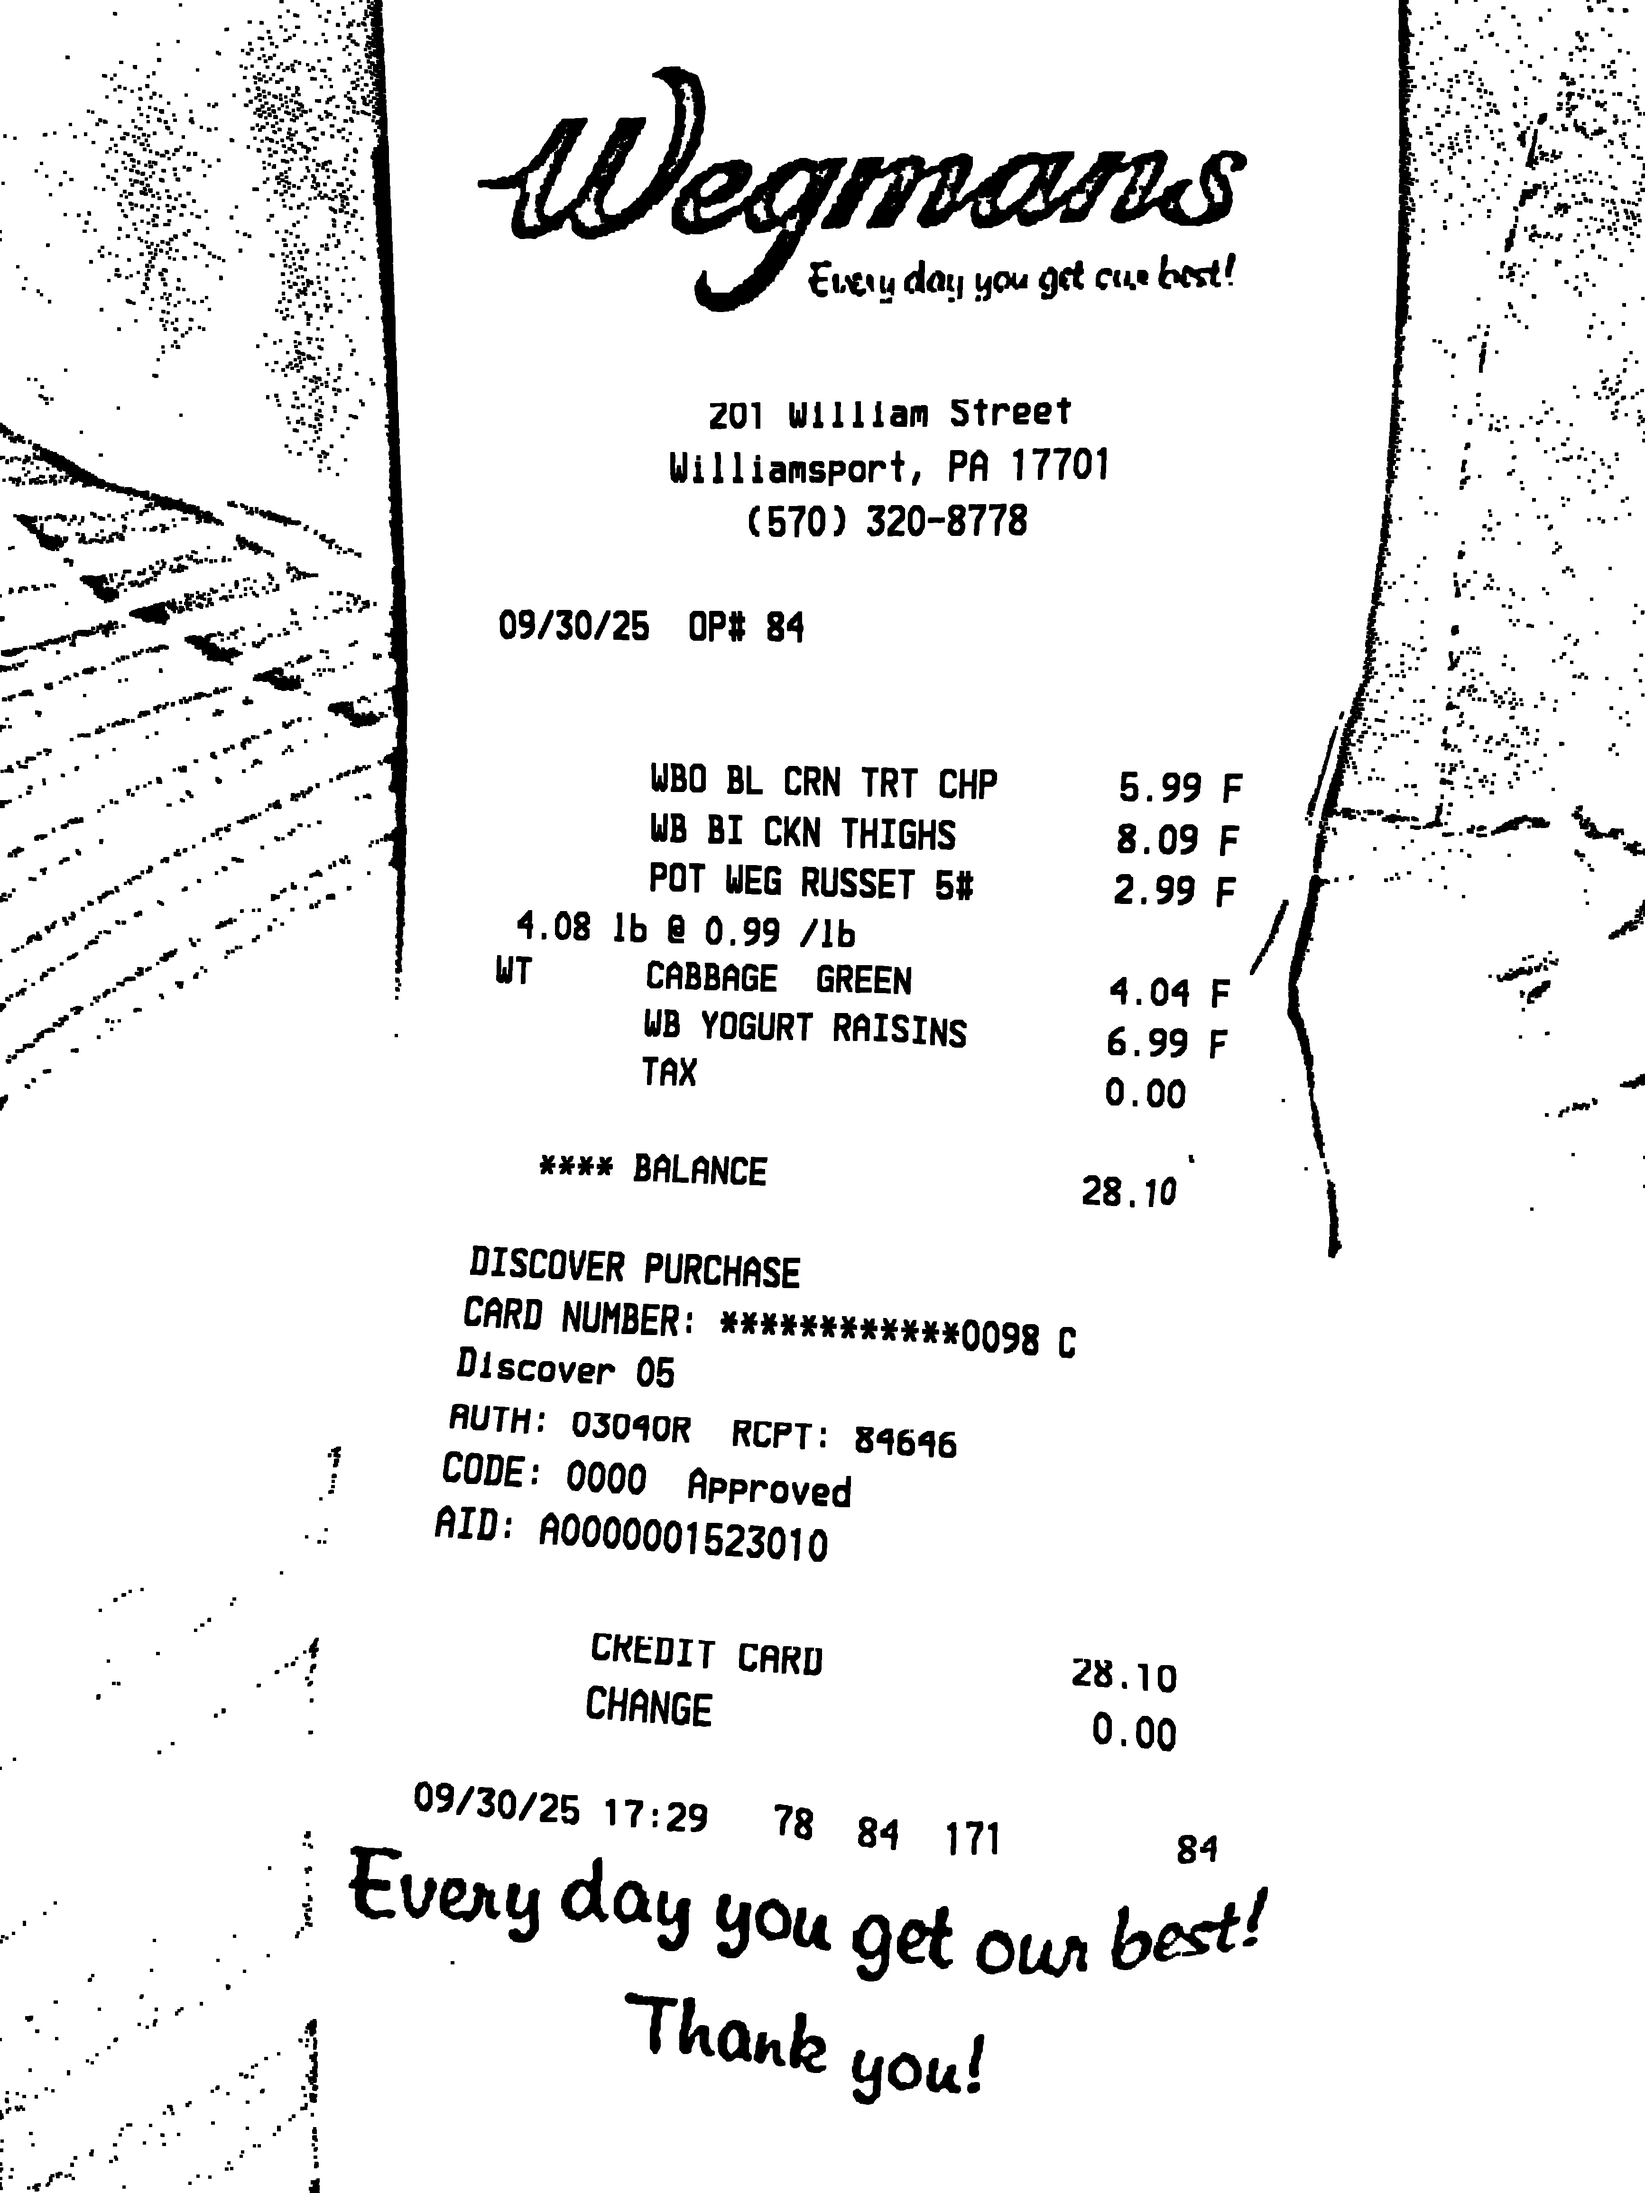
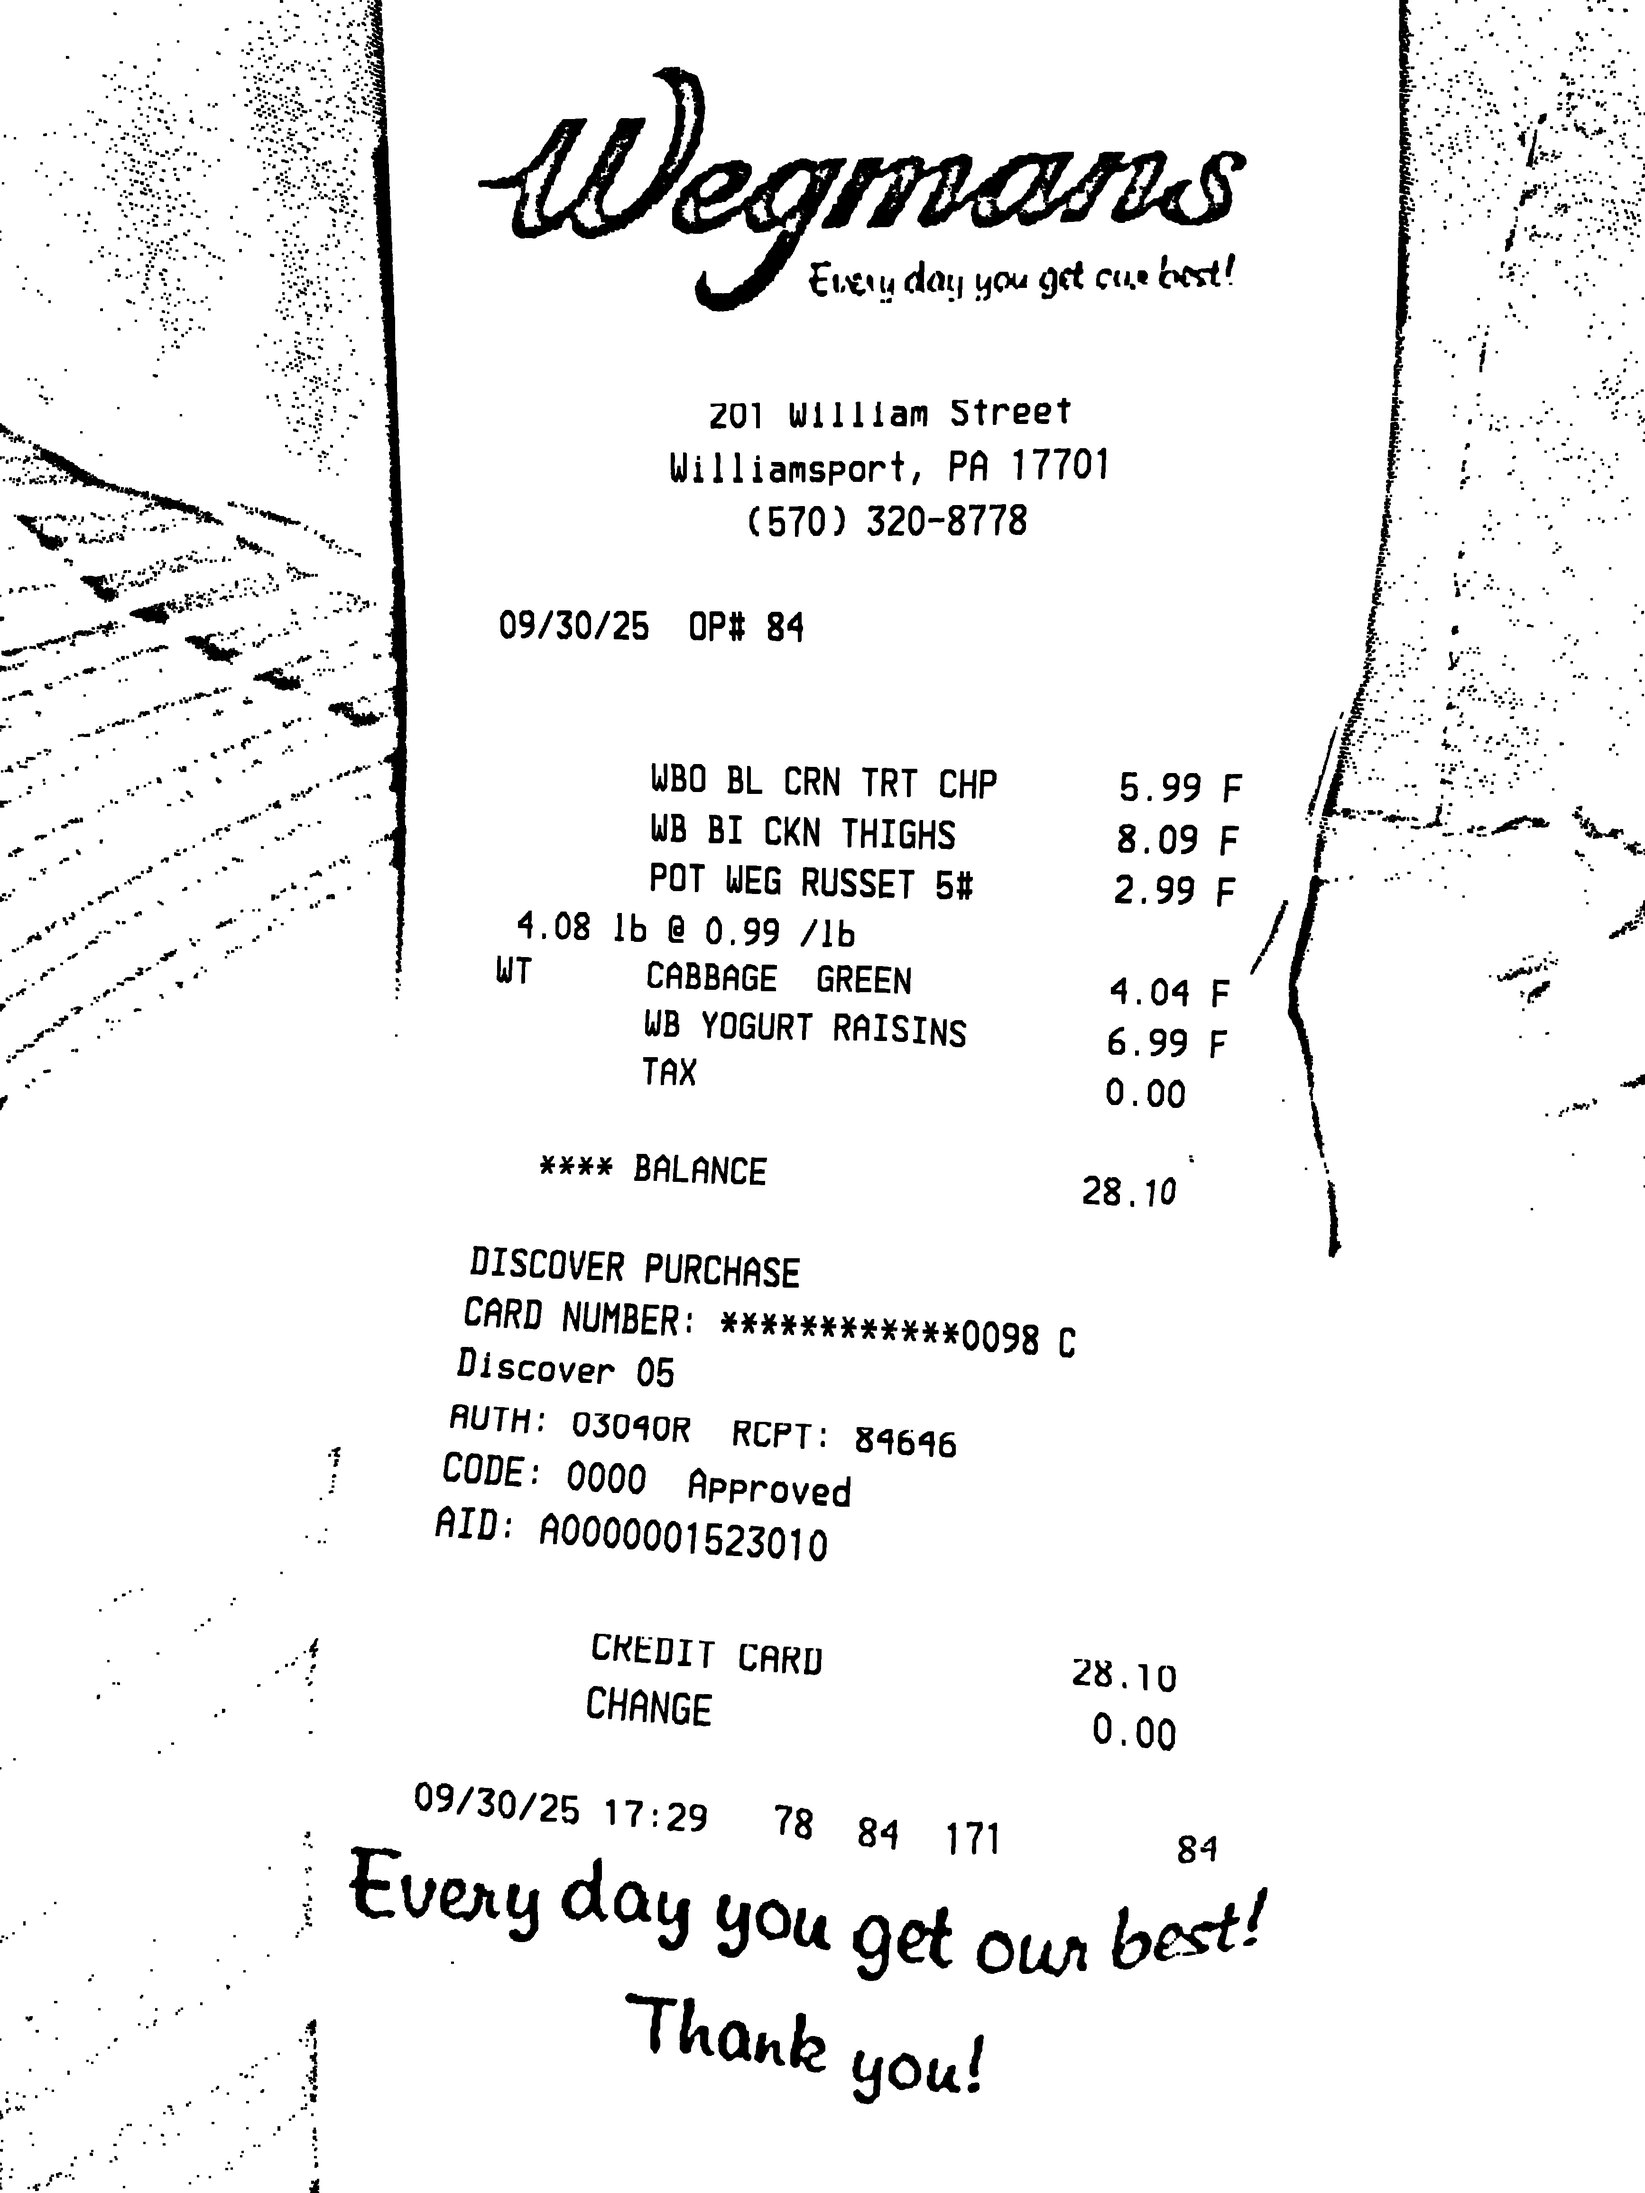
loading datasets

Changed region(s): [[0.1557, 0.0311, 0.1869, 0.0623]]

diff --git a/src/ocr/preprocess.py b/src/ocr/preprocess.py
@@ -13,12 +13,13 @@ def main():
     # gives a numpy array, grayscale b/c only want the text
     # image.shape is (height, width, 3 BGR channels)
     # but with using grayscale is just (height, width)
-    img = cv2.imread(image_path + "receipt.jpg", cv2.IMREAD_GRAYSCALE)
+    img = cv2.imread(image_path + "target_receipt.jpg", cv2.IMREAD_GRAYSCALE)
     # img = cv2.imread(image_path + "receipt3.jpg")
 
     # img = process_image(img)
     # img = remove(img)
-    img = reduce_shadow(img)
+    # img = reduce_shadow(img)
+    # img = fill_text(img)
 
     print(pytesseract.image_to_string(img))
     # img = remove(img)
@@ -31,8 +32,9 @@ def main():
     # img = deskew_image(img)
     # img = normalize_image(img)
     # img = threshold_image(img)
-    cv2.imwrite(image_path + 'gaussian9.jpg', img)
+    cv2.imwrite(image_path + 'gaussian10.jpg', img)
     return
+
 
 def f(img):
     h, w = img.shape[:2]
@@ -47,11 +49,29 @@ def f(img):
     mask = 255 - morph
     result = cv2.bitwise_and(img, img, mask=mask)
     return result
+
+
 def reduce_blur(img):
     if len(img.shape) == 3:
         img = cv2.cvtColor(img, cv2.COLOR_BGR2GRAY)
 
+
 # definitely has some room for improvement
+
+# intended to work on binary separated using otsu's method
+def fill_text(otsu_img):
+    # kernel for connecting broken letters
+    kernel = cv2.getStructuringElement(cv2.MORPH_RECT, (3, 3))
+
+    # closing = dilation then erosion
+    # gaussian 8 = 1,3
+    # 1, 3 seems to be best, can always go back though
+    # nevermind 1,2 doesn't matter how it looks to human eyes
+    dilated = cv2.dilate(otsu_img, kernel, iterations=1)
+    closed = cv2.erode(dilated, kernel, iterations=3)
+    return closed
+
+
 def reduce_shadow(img):
     if len(img.shape) == 3:
         img = cv2.cvtColor(img, cv2.COLOR_BGR2GRAY)
@@ -70,16 +90,7 @@ def reduce_shadow(img):
     # otsu's method is used here because we've effective split the foreground and background,
     # giving us the bimodal lighting that otsu's needs to work properly
     thresh = cv2.threshold(divide, 0, 255, cv2.THRESH_BINARY + cv2.THRESH_OTSU)[1]
-
-    # kernel for connecting broken letters
-    kernel = cv2.getStructuringElement(cv2.MORPH_RECT, (3, 3))
-
-    # closing = dilation then erosion
-    # gaussian 8 = 1,3
-    # 1, 3 seems to be best, can always go back though
-    dilated = cv2.dilate(thresh, kernel, iterations=1)
-    closed = cv2.erode(dilated, kernel, iterations=3)
-    return closed
+    return thresh
 
     # mask = np.zeros(divide.shape[:2], np.uint8)
     # bgdModel = np.zeros((1, 65), np.float64)
@@ -101,38 +112,40 @@ def normalize_image(img):
 
 
 def process_image(img):
-        height, width = img.shape[:2]
-        margin = 0.05  # 5% margin
-        x = int(width * margin)
-        y = int(height * margin)
-        rect = (x, y, width - 2 * x, height - 2 * y)
+    height, width = img.shape[:2]
+    margin = 0.05  # 5% margin
+    x = int(width * margin)
+    y = int(height * margin)
+    rect = (x, y, width - 2 * x, height - 2 * y)
 
-        # Create mask and models
+    # Create mask and models
 
-        mask = np.zeros(img.shape[:2], np.uint8)
-        bgdModel = np.zeros((1, 65), np.float64)
-        fgdModel = np.zeros((1, 65), np.float64)
+    mask = np.zeros(img.shape[:2], np.uint8)
+    bgdModel = np.zeros((1, 65), np.float64)
+    fgdModel = np.zeros((1, 65), np.float64)
 
-        # Apply GrabCut
+    # Apply GrabCut
 
-        cv2.grabCut(img, mask, rect, bgdModel, fgdModel, 5, cv2.GC_INIT_WITH_RECT)
+    cv2.grabCut(img, mask, rect, bgdModel, fgdModel, 5, cv2.GC_INIT_WITH_RECT)
 
-        # Create binary mask
+    # Create binary mask
 
-        mask2 = np.where((mask == 2) | (mask == 0), 0, 1).astype("uint8")
+    mask2 = np.where((mask == 2) | (mask == 0), 0, 1).astype("uint8")
 
-        # Convert to RGBA and apply mask to alpha channel
+    # Convert to RGBA and apply mask to alpha channel
 
-        output_rgba = cv2.cvtColor(img, cv2.COLOR_BGR2BGRA)
-        output_rgba[:, :, 3] = mask2 * 255  # 0 for background, 255 for foreground
-        return output_rgba
+    output_rgba = cv2.cvtColor(img, cv2.COLOR_BGR2BGRA)
+    output_rgba[:, :, 3] = mask2 * 255  # 0 for background, 255 for foreground
+    return output_rgba
 
-        # Save as PNG to preserve transparency
+    # Save as PNG to preserve transparency
+
 
 def threshold_image(img):
     # don't really care about the threshold value
     _, binary = cv2.threshold(img, 0, 255, cv2.THRESH_BINARY + cv2.THRESH_OTSU)
     return binary
+
 
 def remove_bg(img):
     if len(img.shape) == 3:
@@ -140,6 +153,7 @@ def remove_bg(img):
     kernel = np.ones((3, 3), np.uint8)
     cleaned = cv2.morphologyEx(img, cv2.MORPH_OPEN, kernel)
     return cleaned
+
 
 # fixing rotated/tilted text
 def deskew_image(img):
@@ -182,7 +196,7 @@ def adaptive_threshold(img):
     ret, th1 = cv2.threshold(img, 127, 255, cv2.THRESH_BINARY)
     th2 = cv2.adaptiveThreshold(img, 255, cv2.ADAPTIVE_THRESH_MEAN_C, cv2.THRESH_BINARY, 11, 2)
     th3 = cv2.adaptiveThreshold(img, 255, cv2.ADAPTIVE_THRESH_GAUSSIAN_C,
-                               cv2.THRESH_BINARY, 11, 2)
+                                cv2.THRESH_BINARY, 11, 2)
     titles = ['Original Image', 'Global Thresholding (v = 127)',
               'Adaptive Mean Thresholding', 'Adaptive Gaussian Thresholding']
     images = [img, th1, th2, th3]

diff --git a/src/deeplabv3/datasets.py b/src/deeplabv3/datasets.py
@@ -1,0 +1,146 @@
+import numpy as np
+import torch
+from PIL import Image
+from torch.utils.data import Dataset, DataLoader
+import albumentations as A
+import glob
+
+from src.deeplabv3.utils import set_class_labels, get_label_mask
+
+
+def get_images(path):
+    train_imgs = glob.glob(f"{path}/document_dataset_resized/train/images/*")
+    train_masks = glob.glob(f"{path}/document_dataset_resized/train/masks/*")
+    valid_imgs = glob.glob(f"{path}/document_dataset_resized/valid/images/*")
+    valid_masks = glob.glob(f"{path}/document_dataset_resized/valid/masks/*")
+
+    return train_imgs, train_masks, valid_imgs, valid_masks
+
+
+# normalizing before passing in to train  the model, might have to
+# tune it a bit for our dataset, but for now just leave it
+def normalize():
+    """
+    Transform to normalize image.
+    """
+    transform = A.Compose([
+        A.Normalize(
+            mean=[0.45734706, 0.43338275, 0.40058118],
+            std=[0.23965294, 0.23532275, 0.2398498],
+            always_apply=True
+        )
+    ])
+    return transform
+
+# right now we only resize, flip image, and have random brightness,
+# but we should add transformations for other stuff (figure it out later)
+# actually, if we use a synthetic dataset, we wouldn't need to transform
+# if that dataset is already transformed. but we could just use a synthetic
+# dataset and transform on the fly with this, not sure
+def train_transforms(img_size):
+    """
+    Transforms/augmentations for training images and masks.
+
+    :param img_size: Integer, for image resize.
+    """
+    train_image_transform = A.Compose([
+        A.Resize(img_size, img_size, always_apply=True),
+        A.HorizontalFlip(p=0.5),
+        A.RandomBrightnessContrast(p=0.2),
+    ])
+    return train_image_transform
+
+# only transofmrmations should be resizing, why? idk figure it out later
+def valid_transforms(img_size):
+    """
+    Transforms/augmentations for validation images and masks.
+
+    :param img_size: Integer, for image resize.
+    """
+    valid_image_transform = A.Compose([
+        A.Resize(img_size, img_size, always_apply=True),
+    ])
+    return valid_image_transform
+
+class SegmentationDataset(Dataset):
+    # ctor
+    def __init__(
+            self, image_paths, mask_paths, tfms, norm_tfms, label_colors_list,classes_to_train,all_classes
+    ):
+        self.image_paths = image_paths
+        self.mask_paths = mask_paths
+        # transformation functions
+        self.tfms = tfms
+        self.norm_tfms = norm_tfms
+        self.label_colors_list = label_colors_list
+        self.all_classes = all_classes
+        self.classes_to_train = classes_to_train
+        # Convert string names to class values for masks.
+        self.class_values = set_class_labels(
+            self.all_classes, self.classes_to_train
+        )
+
+    def __len__(self):
+        return len(self.image_paths)
+
+    def __getitem__(self, index):
+        image = np.array(Image.open(self.image_paths[index]).convert('RGB'))
+        mask = np.array(Image.open(self.mask_paths[index]).convert('RGB'))
+
+        # prob is not necessary but ok
+        im = mask >= 200
+        mask[im] = 255
+        mask[np.logical_not(im)] = 0
+
+
+        image = self.norm_tfms(image=image)['image']
+        transformed = self.tfms(image=image, mask=mask)
+        image = transformed['image']
+        mask = transformed['mask']
+
+        # Get colored label mask.
+        mask = get_label_mask(mask, self.class_values, self.label_colors_list)
+
+        # transpose from (height, width, channel) to (C, H, W)
+        # since this is the format that deeplabv3 expects in torch
+        image = np.transpose(image, (2, 0, 1))
+
+        image = torch.tensor(image, dtype=torch.float)
+        mask = torch.tensor(mask, dtype=torch.long)
+
+        return image, mask
+
+
+def get_dataset(
+    train_image_paths,
+    train_mask_paths,
+    valid_image_paths,
+    valid_mask_paths,
+    all_classes,
+    classes_to_train,
+    label_colors_list,
+    img_size
+):
+    train_tfms = train_transforms(img_size)
+    valid_tfms = valid_transforms(img_size)
+    norm_tfms = normalize()
+
+    train_dataset = SegmentationDataset(
+        train_image_paths,
+        train_mask_paths,
+        train_tfms,
+        norm_tfms,
+        label_colors_list,
+        classes_to_train,
+        all_classes
+    )
+    valid_dataset = SegmentationDataset(
+        valid_image_paths,
+        valid_mask_paths,
+        valid_tfms,
+        norm_tfms,
+        label_colors_list,
+        classes_to_train,
+        all_classes
+    )
+    return train_dataset, valid_dataset

diff --git a/src/deeplabv3/utils.py b/src/deeplabv3/utils.py
@@ -1,0 +1,29 @@
+import numpy as np
+
+# sets labels for classes, for now it should just be bg vs foreground
+def set_class_labels(all_classes, classes_to_train):
+    class_values = [all_classes.index(cls.lower()) for cls in classes_to_train]
+    return class_values
+
+
+# segmentation mask is just a value for each pixel, representing which
+# class it belongs to
+def get_label_mask(mask, class_values, label_colors_list):
+    """
+    This function encodes the pixels belonging to the same class
+    in the image into the same label
+
+    :param mask: NumPy array, segmentation mask.
+    :param class_values: List containing class values, e.g background = 0 receipt = 1
+    :param label_colors_list: List containing RGB color value for each class.
+    """
+    label_mask = np.zeros((mask.shape[0], mask.shape[1]), dtype=np.uint8)
+    for value in class_values:
+        for ii, label in enumerate(label_colors_list):
+            if value == label_colors_list.index(label):
+                label = np.array(label)
+                rows, cols = np.where(np.all(mask == label, axis=-1))
+                label_mask[rows, cols] = value
+                # label_mask[np.where(np.all(mask == label, axis=-1))[:2]] = value
+    label_mask = label_mask.astype(int)
+    return label_mask
